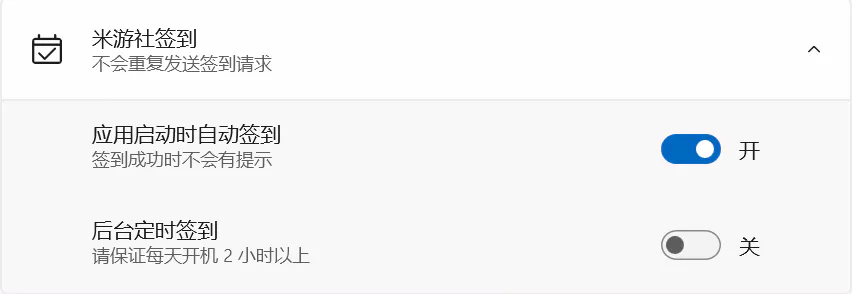
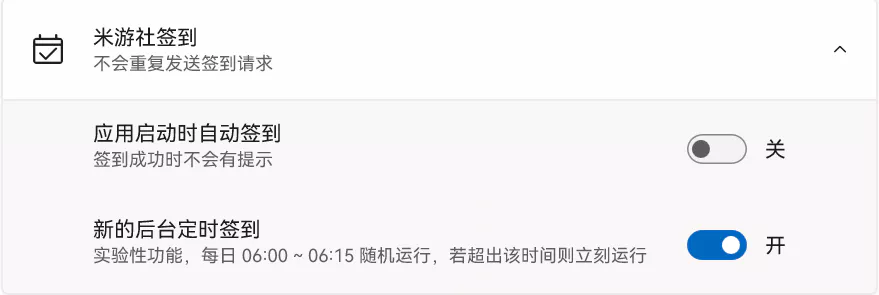
update

diff --git a/docs/help/xunkong/wishlog.md b/docs/help/xunkong/wishlog.md
@@ -2,15 +2,41 @@
 
 ::: tip 提示
 此功能仍存在性能问题，界面卡死是正常现象。
+从原神 3.0 版本开始更改了祈愿记录网址的获取方式。
 :::
 
 ## 获取记录
 
-首先请进入游戏然后打开祈愿记录页面。
-
 ![get-wishlog](./img/img-get-wishlog.webp)
 
-原神国服和国际服的日志文件位置不同，所以提供了**国服优先**和**外服优先**两个选项；部分非常火爆的卡池可能会出现短时间内记录缺失的现象，请等一段时间后点击**全量更新**，如果没有安装原神但有日志的网址可以点击**输入网址**。
+首先点击此处的**获取记录**，如果祈愿记录网址已过期，则会显示如下内容，点击**启动代理**。
+
+![start-proxy](./img/img-wishlog-start-proxy.webp)
+
+如果是首次启动代理，则会要求**安装证书**，一定要安装，否则无法获取到网址。      
+这个证书是软件自动生成的，每个人都不一样，不用担心会被滥用。
+
+![proxy-cert](./img/img-wishlog-cert.webp)
+
+可能还会出现以下页面，允许或取消**应该**都可以。
+
+![proxy-cert](./img/img-wishlog-firewall.webp)
+
+代理启动之后，在原神中**重新打开祈愿历史记录页面**，然后会弹出通知已获取网址，同时网址也将会复制到剪贴板。
+
+![proxy-cert](./img/img-wishlog-get-url-toast.webp)
+
+最后返回到第一步，再次点击获取记录。
+
+部分非常火爆的卡池可能会出现短时间内记录缺失的现象，请等一段时间后点击**全量更新**，如果没有安装原神但有日志的网址可以点击**输入网址**。
+
+## 需要注意地方
+
+获取到网址后，应用会自动关闭代理，不排除关闭失败的情况，如果应用内出现**目标积极拒绝**的错误，需要手动关闭代理后重启应用。
+
+获取到网址后，应用左上角的选择框内会显示相关的 Uid，如果没有出现，则可能出现了未知的错误。
+
+获取到网址后，会把该网址复制到剪贴板，出现了异常情况，也可以通过输入网址获取记录。
 
 ## 云备份
 

diff --git a/docs/help/xunkong/others.md b/docs/help/xunkong/others.md
@@ -17,6 +17,7 @@
 
 ![米游社签到](./img/img-setting-signin.webp)
 
-设置界面如图，打开**启动应用时自动签到**后，签到成功则记录时间，保证当天启动时不会重复签到，签到失败则弹出横幅提醒。  
-因为应用框架的限制，无法在开机时或固定时间运行后台任务，所以加入了一个定时签到的任务，每隔2小时自动运行。
+设置界面如图，打开**启动应用时自动签到**后，签到成功则记录时间，保证当天启动时不会重复签到，签到失败则弹出横幅提醒。    
+~~因为应用框架的限制，无法在开机时或固定时间运行后台任务，所以加入了一个定时签到的任务，每隔2小时自动运行。~~    
+1.1.3 版本开始，新增了使用 任务计划程序（taskschd.msc）的签到功能，同时删除了老版本的签到方式。
 
